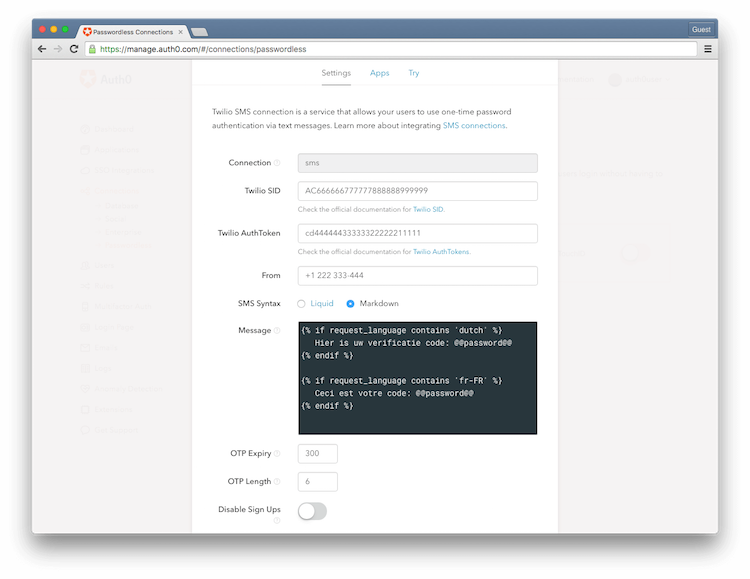
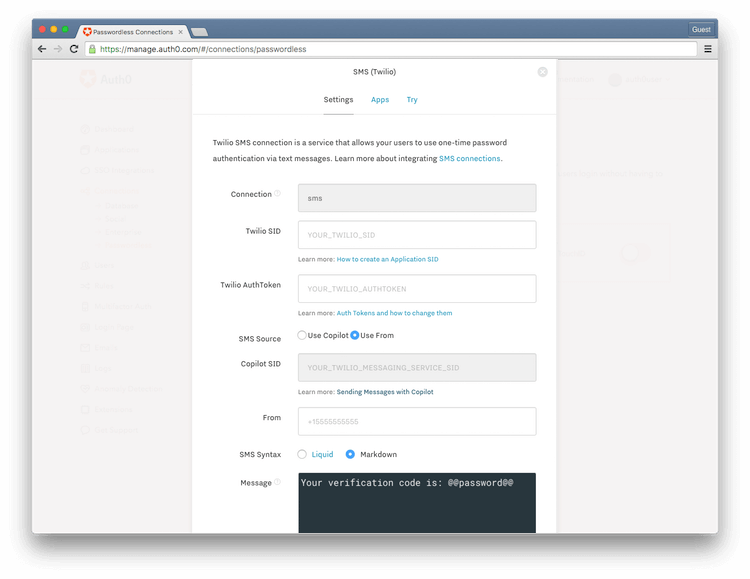
Connections Passwordless - added Copilot, new screenshot

diff --git a/articles/connections/passwordless/_setup-sms-twilio.md b/articles/connections/passwordless/_setup-sms-twilio.md
@@ -6,9 +6,15 @@ You will need a [Twilio Account SID](https://www.twilio.com/help/faq/twilio-basi
 
 In the Dashboard under [Connections > Passwordless](${uiURL}/#/connections/passwordless), set the SMS slider to the right to enable the SMS Passwordless feature.
 
-Enter your **Twilio Account SID** and **Twilio Auth Token** in the appropriate fields.
+Enter your **Twilio Account SID** and **Twilio Auth Token** in the appropriate fields. 
 
-Enter the **From** phone number that users will see as the sender of the SMS. You may also configure this in Twilio.
+**NOTE**: For information on obtaining a Twilio SID and Auth Token, see: [How to create an Application SID](https://www.twilio.com/help/faq/twilio-basics/what-is-an-application-sid) and [Auth Tokens and how to change them](https://www.twilio.com/help/faq/twilio-basics/what-is-the-auth-token-and-how-can-i-change-it).
+
+Select the **SMS Source** that users will see as the sender of the SMS.
+
+**NOTE**: For information on using Copilot, see: [Sending Messages with Copilot](https://www.twilio.com/docs/api/rest/sending-messages-copilot).
+
+Enter either your **Twilio Messaging Service SID** or a **From** phone number, depending on the **SMS Source** selected above.
 
 Lastly, enter the **Message** that will appear in the body of the SMS.
 
